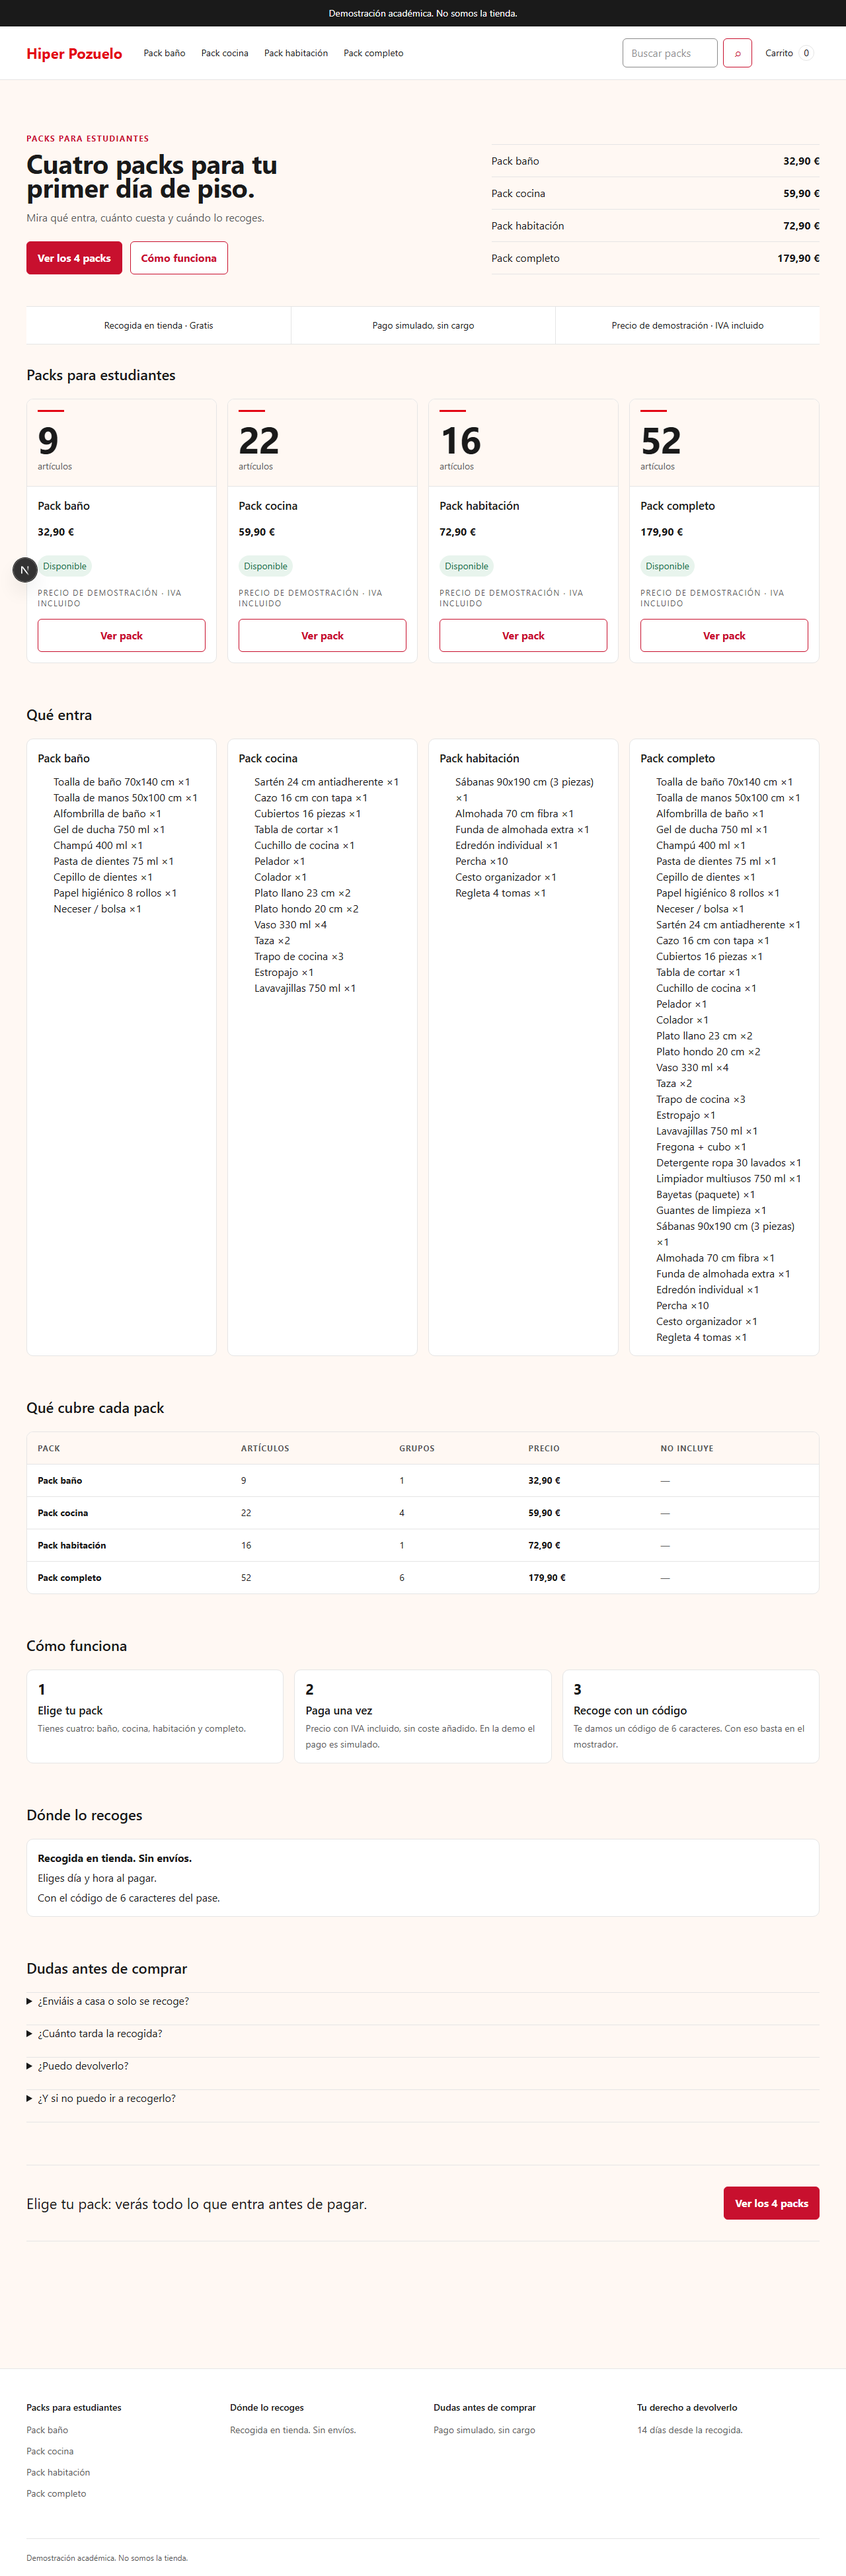
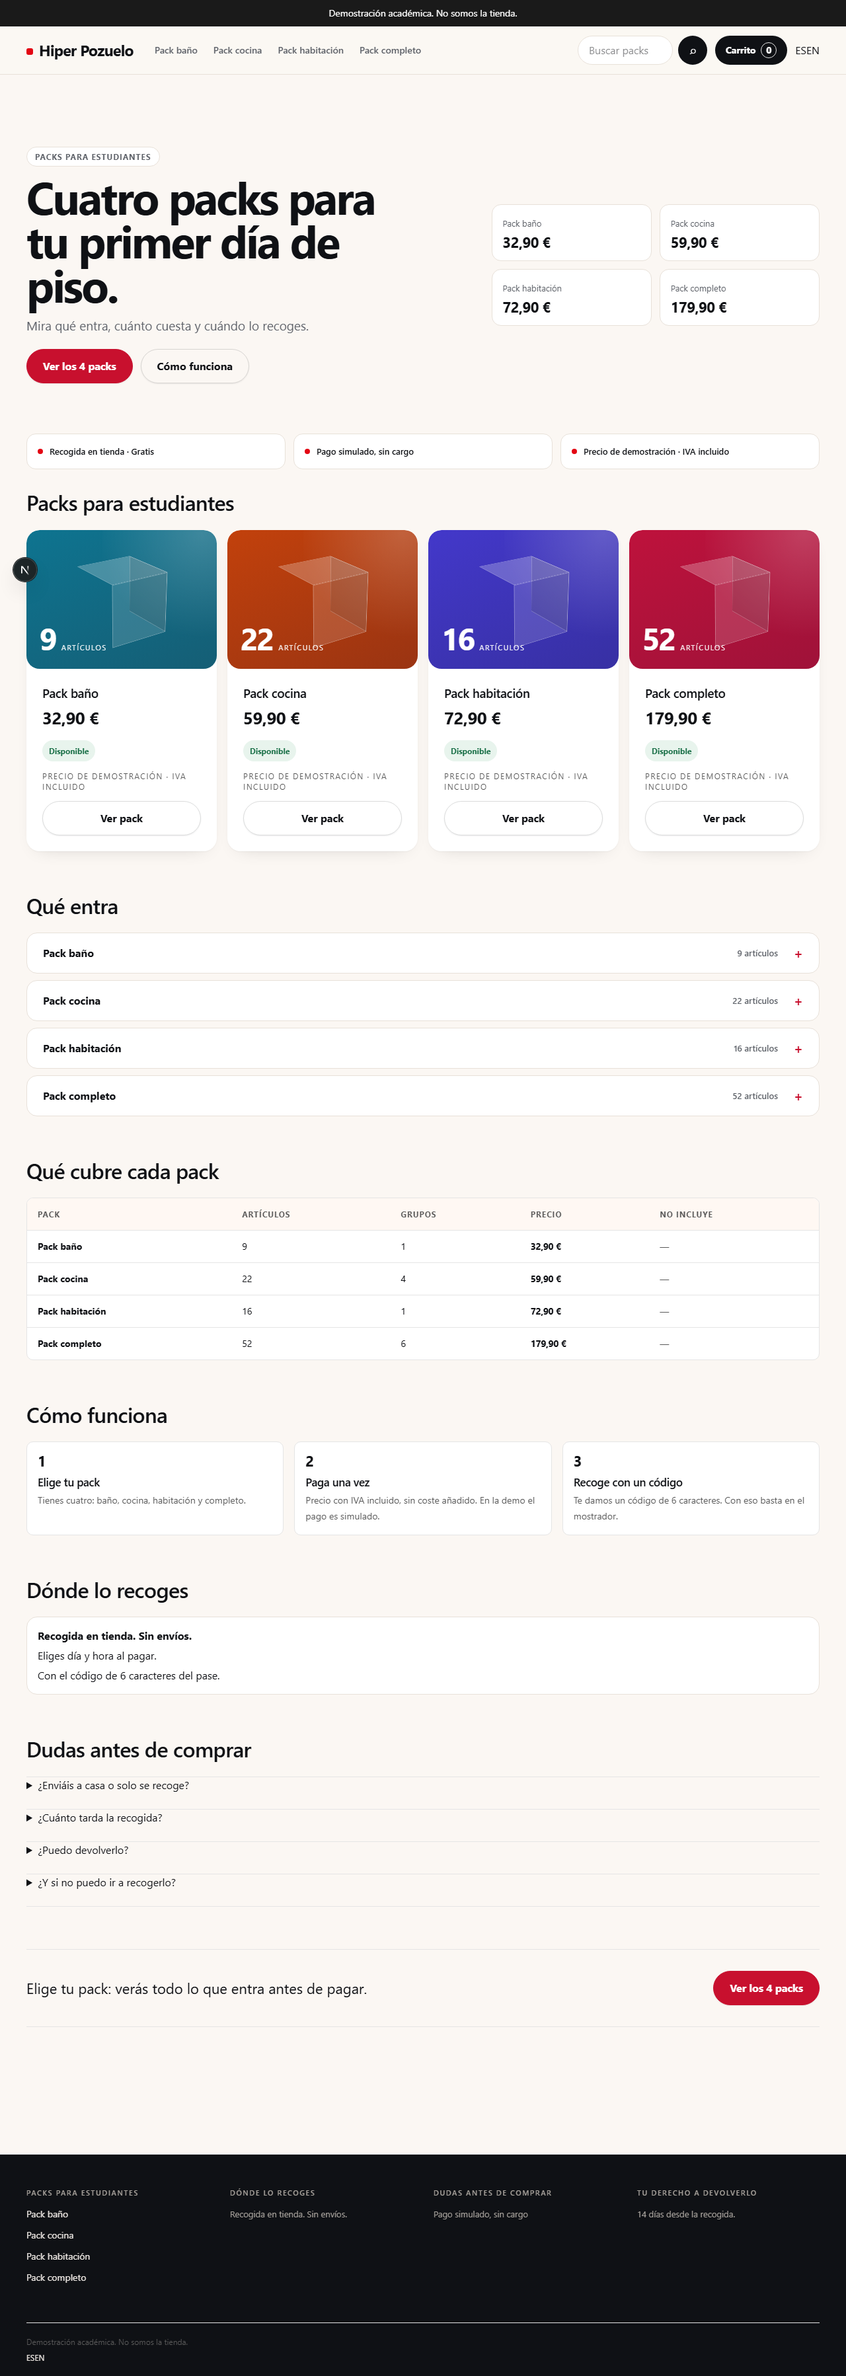
feat(design): visual system v2 — colour-blocked pack panels with CSS isometric cubes
- PackVisual: one accent colour per pack plus a 3D box built from transforms (0 KB, no WebGL).
- Cards: rounded, soft shadow, hover lift; the pack panel finally carries desire.
- Sticky blurred header, pill CTAs, dark footer.
- 'Qué entra' collapses into an accordion instead of a four-column wall of text.
- Product page: sticky buy column plus a 'Qué incluye' breakdown, sticky bar mobile-only.
- Language switcher regains 44px targets; home keeps availabilityLabel() for ES.
- verify 0; captures in docs/reviews/v2-*.png.

diff --git a/app/globals.css b/app/globals.css
@@ -70,3 +70,121 @@
 
 @media (prefers-reduced-motion: no-preference){.btn{transition:background-color 120ms cubic-bezier(.2,0,.3,1),border-color 120ms cubic-bezier(.2,0,.3,1),transform 120ms cubic-bezier(.2,0,.3,1)}.sticky-action-bar{transition:transform 160ms cubic-bezier(.2,0,.3,1)}}
 @media (prefers-reduced-motion: reduce){.sticky-action-bar{transition:none;transform:none;visibility:hidden;opacity:0}.sticky-action-bar.is-visible{visibility:visible;opacity:1}.btn:hover{transform:none}}
+
+/* ============================================================================
+   Sistema visual v2 — reemplaza la capa austera: color por pack, profundidad,
+   ritmo tipográfico y cabecera pegajosa. Solo presentación.
+   ========================================================================== */
+:root{
+  --bg:#FBF7F3;
+  --paper:#FFFFFF;
+  --ink-strong:#0F1115;
+  --ink-soft:#5B5F66;
+  --hair:#E8E1D9;
+  --radius-card:20px;
+  --shadow-card:0 1px 2px #0f11150a, 0 10px 30px -18px #0f111533;
+  --shadow-lift:0 2px 4px #0f11150f, 0 18px 44px -20px #0f111542;
+}
+body{background:var(--bg);color:var(--ink-strong)}
+h1,h2,h3{letter-spacing:-.02em}
+h2{font-size:clamp(24px,3vw,32px);line-height:1.1}
+h3{font-size:18px}
+
+/* Cabecera */
+.site-header{position:sticky;top:0;z-index:40;background:#FBF7F3E6;backdrop-filter:blur(14px) saturate(1.2);border-bottom:1px solid var(--hair)}
+.site-header-inner{min-height:72px;gap:var(--space-5)}
+.brand{font-size:23px;letter-spacing:-.03em;color:var(--ink-strong)}
+.brand::before{content:"";display:inline-block;width:10px;height:10px;margin-right:9px;border-radius:3px;background:var(--red-brand);transform:translateY(-2px)}
+.pack-nav a{color:var(--ink-soft);font-size:14px;font-weight:600;text-decoration:none}
+.pack-nav a:hover{color:var(--ink-strong)}
+.header-search input{border:1px solid var(--hair);background:var(--paper);border-radius:999px;padding-inline:var(--space-4)}
+.header-search button{border-radius:999px;background:var(--ink-strong);color:#fff;border:0}
+.cart-link{display:inline-flex;align-items:center;gap:8px;min-height:44px;padding:0 var(--space-4);border-radius:999px;background:var(--ink-strong);color:#fff;text-decoration:none;font-weight:700;font-size:14px}
+
+/* Héroe */
+.hook{padding-block:clamp(32px,6vw,80px);align-items:center}
+.hook h1{font-size:clamp(40px,6vw,68px);line-height:.98;letter-spacing:-.04em;max-width:14ch}
+.home-lead{font-size:clamp(16px,1.6vw,19px);color:var(--ink-soft);max-width:44ch}
+.eyebrow{display:inline-flex;align-items:center;gap:8px;padding:6px 12px;border-radius:999px;background:#fff;border:1px solid var(--hair);font-size:12px;font-weight:700;letter-spacing:.08em;text-transform:uppercase;color:var(--ink-soft)}
+.cta-row{gap:var(--space-3);margin-top:var(--space-5)}
+.btn{border-radius:999px;padding:0 var(--space-5);font-weight:700;min-height:52px;box-shadow:0 1px 2px #0f111514}
+.btn:hover{transform:translateY(-1px)}
+.btn.secondary{background:transparent;color:var(--ink-strong);border:1px solid #0f111526}
+.btn.secondary:hover{background:#fff}
+.hook-index{border-top:0;display:grid;grid-template-columns:1fr 1fr;gap:12px}
+.hook-index li{border-bottom:0;background:var(--paper);border:1px solid var(--hair);border-radius:14px}
+.hook-index a{padding:var(--space-4);flex-direction:column;align-items:flex-start;gap:4px;min-height:auto}
+.hook-index a span:first-child{font-size:13px;color:var(--ink-soft)}
+.hi-price{font-size:22px;letter-spacing:-.02em}
+
+/* Fila de confianza */
+.trust-row{border-block:0;background:transparent;gap:12px;display:grid;grid-template-columns:repeat(3,1fr)}
+.trust-row p{background:var(--paper);border:1px solid var(--hair);border-radius:14px;padding:14px 16px;font-size:13px;font-weight:600;text-align:left;display:flex;align-items:center;gap:10px}
+.trust-row p::before{content:"";width:8px;height:8px;border-radius:50%;background:var(--red-brand);flex:0 0 8px}
+.trust-row p+p{border-left:1px solid var(--hair)}
+
+/* Tarjetas de pack */
+.pack-card,.catalog-card{border:0;border-radius:var(--radius-card);background:var(--paper);box-shadow:var(--shadow-card);overflow:hidden;transition:transform .18s ease, box-shadow .18s ease}
+.pack-card:hover,.catalog-card:hover{transform:translateY(-3px);box-shadow:var(--shadow-lift)}
+.pack-card-body,.catalog-card-body{padding:var(--space-5);gap:6px}
+.pack-card-body h3,.catalog-card-body h2{font-size:19px;margin:0}
+.price{font-size:26px;letter-spacing:-.02em}
+.availability{border-radius:999px;padding:4px 10px;font-weight:700;font-size:12px}
+
+/* Panel de color del pack */
+.pv{--s:96px;position:relative;overflow:hidden;isolation:isolate;border-radius:var(--radius-card);min-height:210px;padding:20px;display:flex;flex-direction:column;justify-content:flex-end;background:linear-gradient(155deg,var(--pv-a),var(--pv-b))}
+.pv::before{content:"";position:absolute;inset:-30% -20% auto auto;width:80%;height:130%;background:radial-gradient(circle at 65% 25%,#ffffff30,transparent 62%);z-index:-1}
+.pv-hero{--s:140px;min-height:320px}
+.pv-stage{position:absolute;inset:0;display:grid;place-items:center;perspective:760px}
+.pv-cube{position:relative;width:var(--s);height:var(--s);transform-style:preserve-3d;transform:rotateX(-22deg) rotateY(34deg)}
+.pv-face{position:absolute;inset:0;border:1px solid #ffffff4d;background:#ffffff26}
+.pv-top{transform:rotateX(90deg) translateZ(calc(var(--s)/2));background:#ffffff3d}
+.pv-front{transform:translateZ(calc(var(--s)/2))}
+.pv-side{transform:rotateY(90deg) translateZ(calc(var(--s)/2));background:#0000001f}
+.pv-meta{position:relative;display:flex;align-items:baseline;gap:8px;color:#fff}
+.pv-meta strong{font-size:46px;line-height:1;letter-spacing:-.04em;font-variant-numeric:tabular-nums}
+.pv-hero .pv-meta strong{font-size:64px}
+.pv-meta span{font-size:11px;text-transform:uppercase;letter-spacing:.14em;opacity:.9}
+
+/* Ficha */
+.detail-page{padding-top:var(--space-4)}
+.detail-layout{display:grid;grid-template-columns:1fr;gap:var(--space-6);align-items:start}
+@media(min-width:900px){.detail-layout{grid-template-columns:minmax(360px,440px) 1fr;gap:var(--space-7)}}
+@media(min-width:900px){.detail-buy{position:sticky;top:96px}}
+.detail-price{font-size:44px;letter-spacing:-.04em;margin:var(--space-2) 0 0}
+.detail-benefit{color:var(--ink-soft);margin:var(--space-3) 0 var(--space-4)}
+.purchase-panel{background:var(--paper);border:1px solid var(--hair);border-radius:16px;padding:var(--space-4);margin-top:var(--space-4);display:flex;flex-direction:column;gap:8px}
+.purchase-panel p{margin:0;font-size:13px;color:var(--ink-soft)}
+.detail-content h2{margin-top:var(--space-6)}
+.data-panel{border:1px solid var(--hair);border-radius:16px;background:var(--paper)}
+.other-pack-row{border:1px solid var(--hair);border-radius:14px;background:var(--paper);padding:14px 16px;min-height:56px;text-decoration:none}
+.other-pack-row:hover{border-color:#0f111530}
+
+/* Pie */
+.site-footer{background:#0F1115;color:#EDE8E3;margin-top:var(--space-8)}
+.site-footer h2,.footer-column h2{font-size:11px;text-transform:uppercase;letter-spacing:.14em;color:#A7A29C;margin:0 0 10px}
+.site-footer a{color:#EDE8E3;text-decoration:none}
+.site-footer a:hover{color:#fff;text-decoration:underline}
+.footer-column p{color:#A7A29C;font-size:13px;margin:0}
+/* "Qué entra" deja de ser un muro: un acordeón por pack, cerrado por defecto. */
+.contents-list{display:grid;gap:10px}
+.contents-panel{background:var(--paper);border:1px solid var(--hair);border-radius:16px}
+.contents-panel summary{display:flex;align-items:center;justify-content:space-between;gap:var(--space-3);min-height:60px;padding:0 var(--space-5);cursor:pointer;font-weight:700;list-style:none}
+.contents-panel summary::-webkit-details-marker{display:none}
+.contents-panel summary::after{content:"+";font-size:20px;color:var(--red-action);font-weight:700}
+.contents-panel[open] summary::after{content:"−"}
+.contents-count{font-weight:600;font-size:13px;color:var(--ink-soft);margin-left:auto;margin-right:12px}
+.contents-panel ul{list-style:none;margin:0;padding:0 var(--space-5) var(--space-4);display:grid;gap:6px;font-size:14px;color:var(--ink-soft)}
+.contents-panel li{display:flex;justify-content:space-between;gap:12px;border-top:1px solid #F1EBE4;padding-top:6px}
+.contents-panel li b{color:var(--ink-strong);font-variant-numeric:tabular-nums}
+/* Selector de idioma: objetivo táctil de 44px sin romper la línea del pie. */
+.language-links{display:inline-flex;gap:2px}
+.language-links a{display:inline-flex;align-items:center;justify-content:center;min-width:44px;min-height:44px;border-radius:10px;font-size:12px;font-weight:700;text-decoration:none}
+.language-links a[aria-current="true"]{background:var(--ink-strong);color:#fff}
+@media(min-width:900px){.sticky-action-bar{display:none}}
+/* Resumen de grupos en la columna de compra: evita el hueco muerto de la izquierda. */
+.detail-groups{background:var(--paper);border:1px solid var(--hair);border-radius:16px;padding:var(--space-4);margin-top:var(--space-4)}
+.detail-groups h2{font-size:12px;text-transform:uppercase;letter-spacing:.12em;color:var(--ink-soft);margin:0 0 10px}
+.detail-groups ul{list-style:none;margin:0;padding:0;display:grid;gap:8px}
+.detail-groups li{display:flex;justify-content:space-between;gap:12px;font-size:14px}
+.detail-groups b{font-variant-numeric:tabular-nums}

diff --git a/app/packs/[slug]/page.tsx b/app/packs/[slug]/page.tsx
@@ -7,7 +7,7 @@ import {availabilityLabel} from '@/src/content/availability';
 import {ContentsGroup} from '@/src/components/ContentsGroup';
 import {AddToCartButton} from '@/src/components/AddToCartButton';
 import {PackViewBeacon} from '@/src/components/PackViewBeacon';
-import {PackPlate} from '@/src/components/PackPlate';
+import {PackVisual} from '@/src/components/PackVisual';
 import {Breadcrumbs} from '@/src/components/Breadcrumbs';
 import {StickyActionBar} from '@/src/components/StickyActionBar';
 import {JsonLd} from '@/src/components/JsonLd';
@@ -21,6 +21,6 @@ export default async function Detail({params}: {params: Promise<{slug: string}>}
   const {slug} = await params; const p = getPack(slug); if (!p) notFound();
   const others = packs.filter(other => other.slug !== p.slug);
   const availability = p.availability === 'in_stock' ? 'https://schema.org/InStock' : p.availability === 'low_stock' ? 'https://schema.org/LimitedAvailability' : 'https://schema.org/OutOfStock';
-  return <><JsonLd data={{'@context': 'https://schema.org', '@type': 'Product', name: p.name, description: p.benefit, sku: p.slug, brand: {'@type': 'Brand', name: 'Hiper Pozuelo'}, offers: {'@type': 'Offer', price: (p.priceCents / 100).toFixed(2), priceCurrency: 'EUR', availability, url: `${SITE_URL}/packs/${p.slug}`}}}/><main className="detail-page wrap"><PackViewBeacon slug={p.slug}/><Breadcrumbs trail={[{label: 'Inicio', href: '/'}, {label: 'Packs', href: '/packs'}, {label: p.name}]}/><div className="detail detail-layout"><section className="detail-buy"><h1 className="h1">{p.name}</h1><span className="availability" data-availability={p.availability}>{availabilityLabel(p.availability)}</span><p className="detail-price">{eur(p.priceCents)}</p><span className="label">{PRICE_LABEL[p.dataStatus]}</span><p className="detail-benefit">{p.benefit}</p><PackPlate units={p.units} size="large"/><div id="comprar" className="purchase-panel"><AddToCartButton slug={p.slug} price={eur(p.priceCents)}/><p>Recogida en tienda · Gratis</p><p>14 días para devolverlo</p></div><StickyActionBar slug={p.slug} price={eur(p.priceCents)} label="Comprar"/></section><section className="detail-content"><h2 className="h2">Qué entra</h2>{p.groups.map(group => <ContentsGroup key={group.name} {...group}/>)}<section className="not-included"><h2 className="h2">Qué no entra</h2>{p.notIncluded.length ? <ul>{p.notIncluded.map(item => <li key={item}>− {item}</li>)}</ul> : <p>Todo lo de los tres packs y la limpieza, en una sola compra.</p>}</section><section className="other-packs"><h2 className="h2">Añade otro pack</h2>{others.map(other => <Link className="other-pack-row" key={other.slug} href={`/packs/${other.slug}`}><span>{other.name}</span><span>{other.units} artículos</span><strong>{eur(other.priceCents)}</strong></Link>)}</section></section></div></main></>;
+  return <><JsonLd data={{'@context': 'https://schema.org', '@type': 'Product', name: p.name, description: p.benefit, sku: p.slug, brand: {'@type': 'Brand', name: 'Hiper Pozuelo'}, offers: {'@type': 'Offer', price: (p.priceCents / 100).toFixed(2), priceCurrency: 'EUR', availability, url: `${SITE_URL}/packs/${p.slug}`}}}/><main className="detail-page wrap"><PackViewBeacon slug={p.slug}/><Breadcrumbs trail={[{label: 'Inicio', href: '/'}, {label: 'Packs', href: '/packs'}, {label: p.name}]}/><div className="detail detail-layout"><section className="detail-buy"><h1 className="h1">{p.name}</h1><span className="availability" data-availability={p.availability}>{availabilityLabel(p.availability)}</span><p className="detail-price">{eur(p.priceCents)}</p><span className="label">{PRICE_LABEL[p.dataStatus]}</span><p className="detail-benefit">{p.benefit}</p><PackVisual slug={p.slug} units={p.units} size="hero"/><div id="comprar" className="purchase-panel"><AddToCartButton slug={p.slug} price={eur(p.priceCents)}/><p>Recogida en tienda · Gratis</p><p>14 días para devolverlo</p></div><StickyActionBar slug={p.slug} price={eur(p.priceCents)} label="Comprar"/><div className="detail-groups"><h2>Qué incluye</h2><ul>{p.groups.map(group => <li key={group.name}><span>{group.name}</span><b>{group.units}</b></li>)}</ul></div></section><section className="detail-content"><h2 className="h2">Qué entra</h2>{p.groups.map(group => <ContentsGroup key={group.name} {...group}/>)}<section className="not-included"><h2 className="h2">Qué no entra</h2>{p.notIncluded.length ? <ul>{p.notIncluded.map(item => <li key={item}>− {item}</li>)}</ul> : <p>Todo lo de los tres packs y la limpieza, en una sola compra.</p>}</section><section className="other-packs"><h2 className="h2">Añade otro pack</h2>{others.map(other => <Link className="other-pack-row" key={other.slug} href={`/packs/${other.slug}`}><span>{other.name}</span><span>{other.units} artículos</span><strong>{eur(other.priceCents)}</strong></Link>)}</section></section></div></main></>;
 }
 

diff --git a/app/page.tsx b/app/page.tsx
@@ -3,7 +3,7 @@ import {packs} from '@/src/content/packs';
 import {eur} from '@/src/lib/format';
 import {availabilityLabel} from '@/src/content/availability';
 import {PRICE_LABEL} from '@/src/content/price';
-import {PackPlate} from '@/src/components/PackPlate';
+import {PackVisual} from '@/src/components/PackVisual';
 import {JsonLd} from '@/src/components/JsonLd';
 import {SITE_URL} from '@/src/content/site';
 import type {Metadata} from 'next';
@@ -85,11 +85,11 @@ async function HomeWithLang({searchParams}: {searchParams?: Promise<{lang?: stri
       <div className="pack-grid">
         {packs.map(p => (
           <article className="pack-card" key={p.slug}>
-            <PackPlate units={p.units}/>
+            <PackVisual slug={p.slug} units={p.units}/>
             <div className="pack-card-body">
               <h3>{p.name}</h3>
               <p className="price">{eur(p.priceCents)}</p>
-              <span className="availability" data-availability={p.availability}>{c.availability[p.availability as keyof typeof c.availability]}</span>
+              <span className="availability" data-availability={p.availability}>{lang === 'en' ? c.availability[p.availability as keyof typeof c.availability] : availabilityLabel(p.availability)}</span>
               <p className="micro">{PRICE_LABEL[p.dataStatus]}</p>
               <Link className="btn secondary pack-cta" href={`/packs/${p.slug}`}>{c.viewPack}</Link>
             </div>
@@ -100,12 +100,15 @@ async function HomeWithLang({searchParams}: {searchParams?: Promise<{lang?: stri
 
     <section data-block="5" className="home-block wrap" aria-labelledby="contents-heading">
       <h2 id="contents-heading">{c.contents}</h2>
-      <div className="contents-grid">
+      <div className="contents-list">
         {packs.map(pack => (
-          <article className="data-panel" key={pack.slug}>
-            <h3>{pack.name}</h3>
-            <ul>{pack.groups.flatMap(group => group.items).map(item => <li key={`${pack.slug}-${item.item}`}>{item.item} ×{item.qty}</li>)}</ul>
-          </article>
+          <details className="contents-panel" key={pack.slug}>
+            <summary>
+              <span>{pack.name}</span>
+              <span className="contents-count">{pack.units} artículos</span>
+            </summary>
+            <ul>{pack.groups.flatMap(group => group.items).map(item => <li key={`${pack.slug}-${item.item}`}><span>{item.item}</span><b>×{item.qty}</b></li>)}</ul>
+          </details>
         ))}
       </div>
     </section>

diff --git a/src/components/PackCard.tsx b/src/components/PackCard.tsx
@@ -1,5 +1,5 @@
 import Link from 'next/link';
-import {PackPlate} from '@/src/components/PackPlate';
+import {PackVisual} from '@/src/components/PackVisual';
 import {eur} from '@/src/lib/format';
 import {PRICE_LABEL} from '@/src/content/price';
 import {PROVENANCE_NOTE} from '@/src/content/disclosure';
@@ -7,6 +7,6 @@ import {availabilityLabel} from '@/src/content/availability';
 import type {Pack} from '@/src/content/packs';
 
 export function PackCard({p}: {p: Pack}) {
-  return <article className="catalog-card"><PackPlate units={p.units} size="row"/><div className="catalog-card-body"><h2>{p.name}</h2><p className="muted">{p.benefit}</p><ul className="peek">{p.groups[0]?.items.slice(0, 3).map(item => <li key={item.item}>{item.item} ×{item.qty}</li>)}<li className="peek-more">y {Math.max(p.units - 3, 0)} más</li></ul><p className="price">{eur(p.priceCents)}</p><span className="availability" data-availability={p.availability}>{availabilityLabel(p.availability)}</span><span className="label">{PRICE_LABEL[p.dataStatus]}</span><p className="label">{PROVENANCE_NOTE}</p><Link className="btn secondary" href={`/packs/${p.slug}`}>Ver pack</Link></div></article>;
+  return <article className="catalog-card"><PackVisual slug={p.slug} units={p.units}/><div className="catalog-card-body"><h2>{p.name}</h2><p className="muted">{p.benefit}</p><ul className="peek">{p.groups[0]?.items.slice(0, 3).map(item => <li key={item.item}>{item.item} ×{item.qty}</li>)}<li className="peek-more">y {Math.max(p.units - 3, 0)} más</li></ul><p className="price">{eur(p.priceCents)}</p><span className="availability" data-availability={p.availability}>{availabilityLabel(p.availability)}</span><span className="label">{PRICE_LABEL[p.dataStatus]}</span><p className="label">{PROVENANCE_NOTE}</p><Link className="btn secondary" href={`/packs/${p.slug}`}>Ver pack</Link></div></article>;
 }
 

diff --git a/src/components/PackVisual.tsx b/src/components/PackVisual.tsx
@@ -1,0 +1,28 @@
+// Panel visual del pack: bloque de color propio + caja isométrica dibujada en CSS.
+// No hay fotografía ni WebGL: la caja es geometría con transform 3D, pesa 0 KB y no pide red.
+// Es decorativo (aria-hidden): el número y el nombre ya están en texto en la tarjeta.
+const ACCENTS: Record<string, [string, string]> = {
+  bano: ['#0E7490', '#155E75'],
+  cocina: ['#C2410C', '#9A3412'],
+  habitacion: ['#4338CA', '#3730A3'],
+  completo: ['#BE123C', '#9F1239'],
+};
+
+export function PackVisual({slug, units, size = 'card'}: {slug: string; units: number; size?: 'card' | 'hero'}) {
+  const [a, b] = ACCENTS[slug] ?? ['#1F2937', '#111827'];
+  return (
+    <div className={`pv pv-${size}`} style={{'--pv-a': a, '--pv-b': b} as React.CSSProperties} aria-hidden="true">
+      <div className="pv-stage">
+        <div className="pv-cube">
+          <span className="pv-face pv-top" />
+          <span className="pv-face pv-front" />
+          <span className="pv-face pv-side" />
+        </div>
+      </div>
+      <div className="pv-meta">
+        <strong>{units}</strong>
+        <span>artículos</span>
+      </div>
+    </div>
+  );
+}
